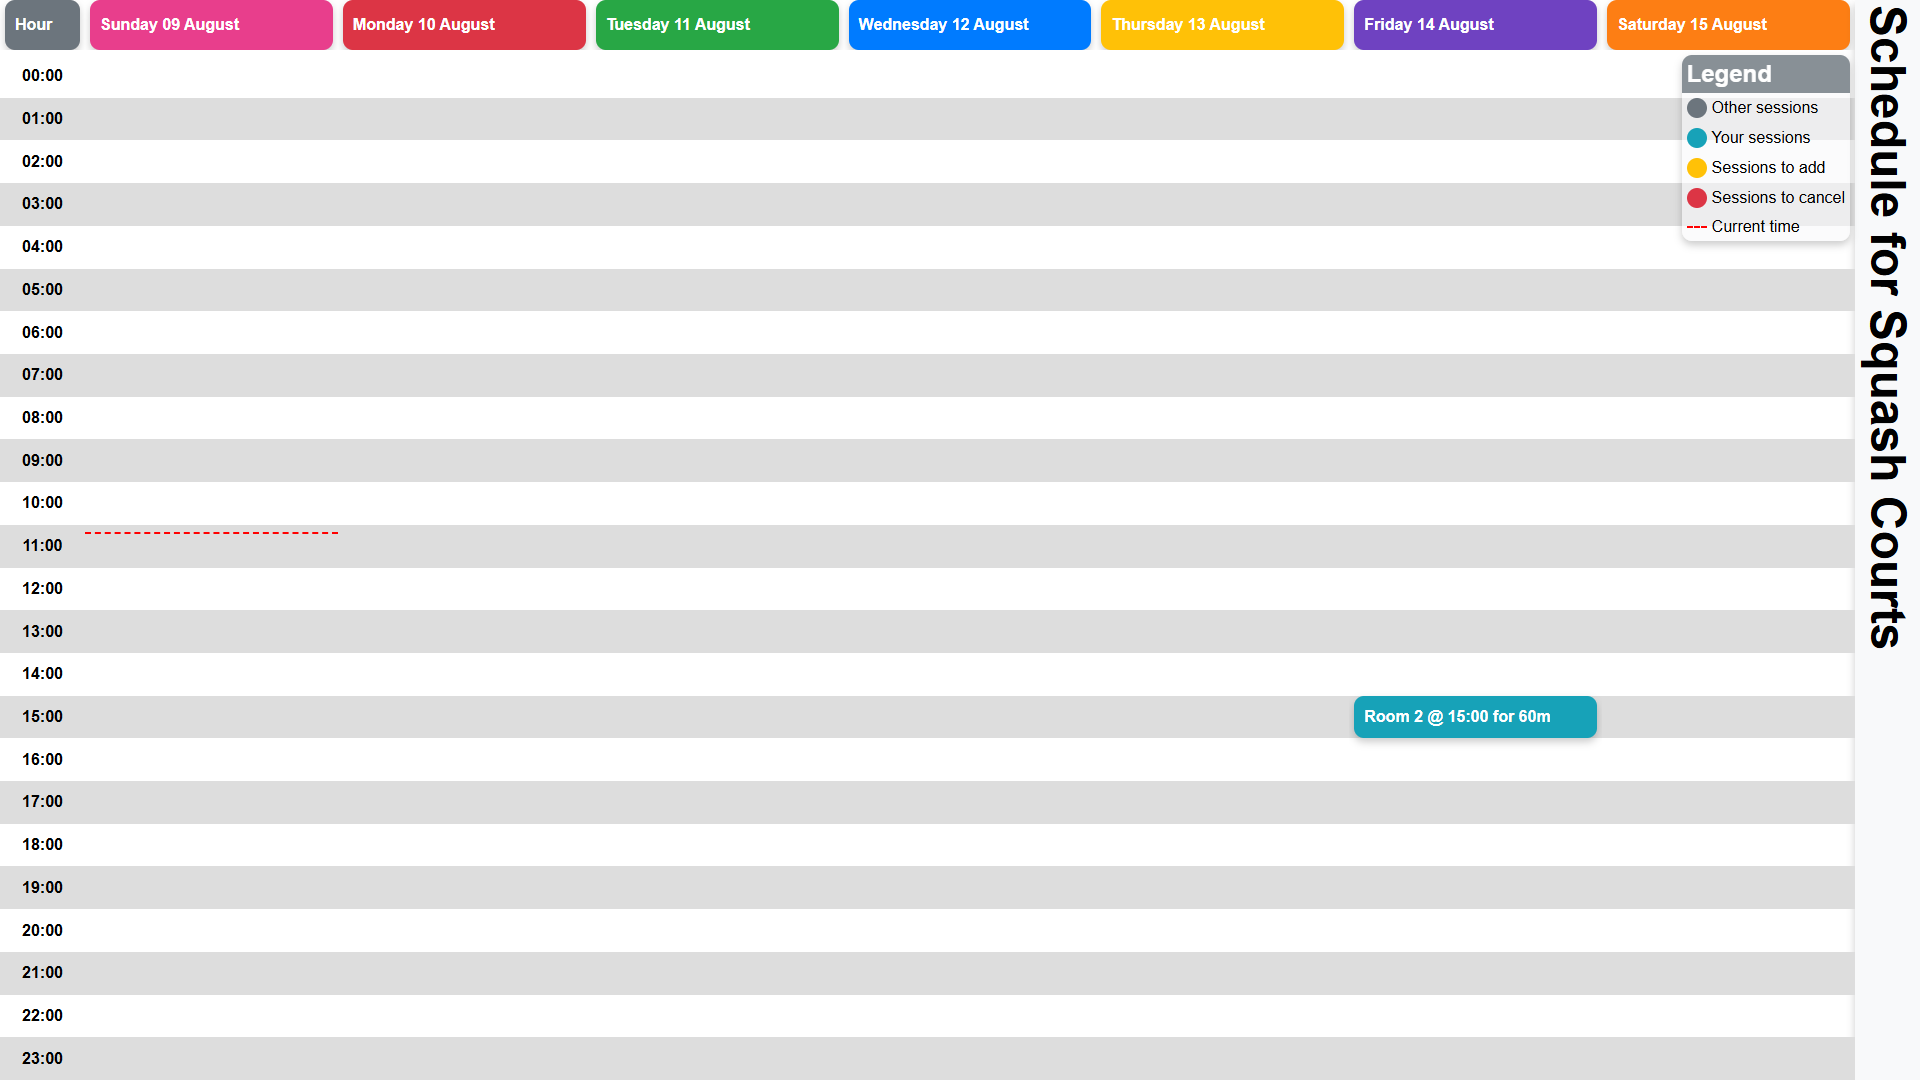
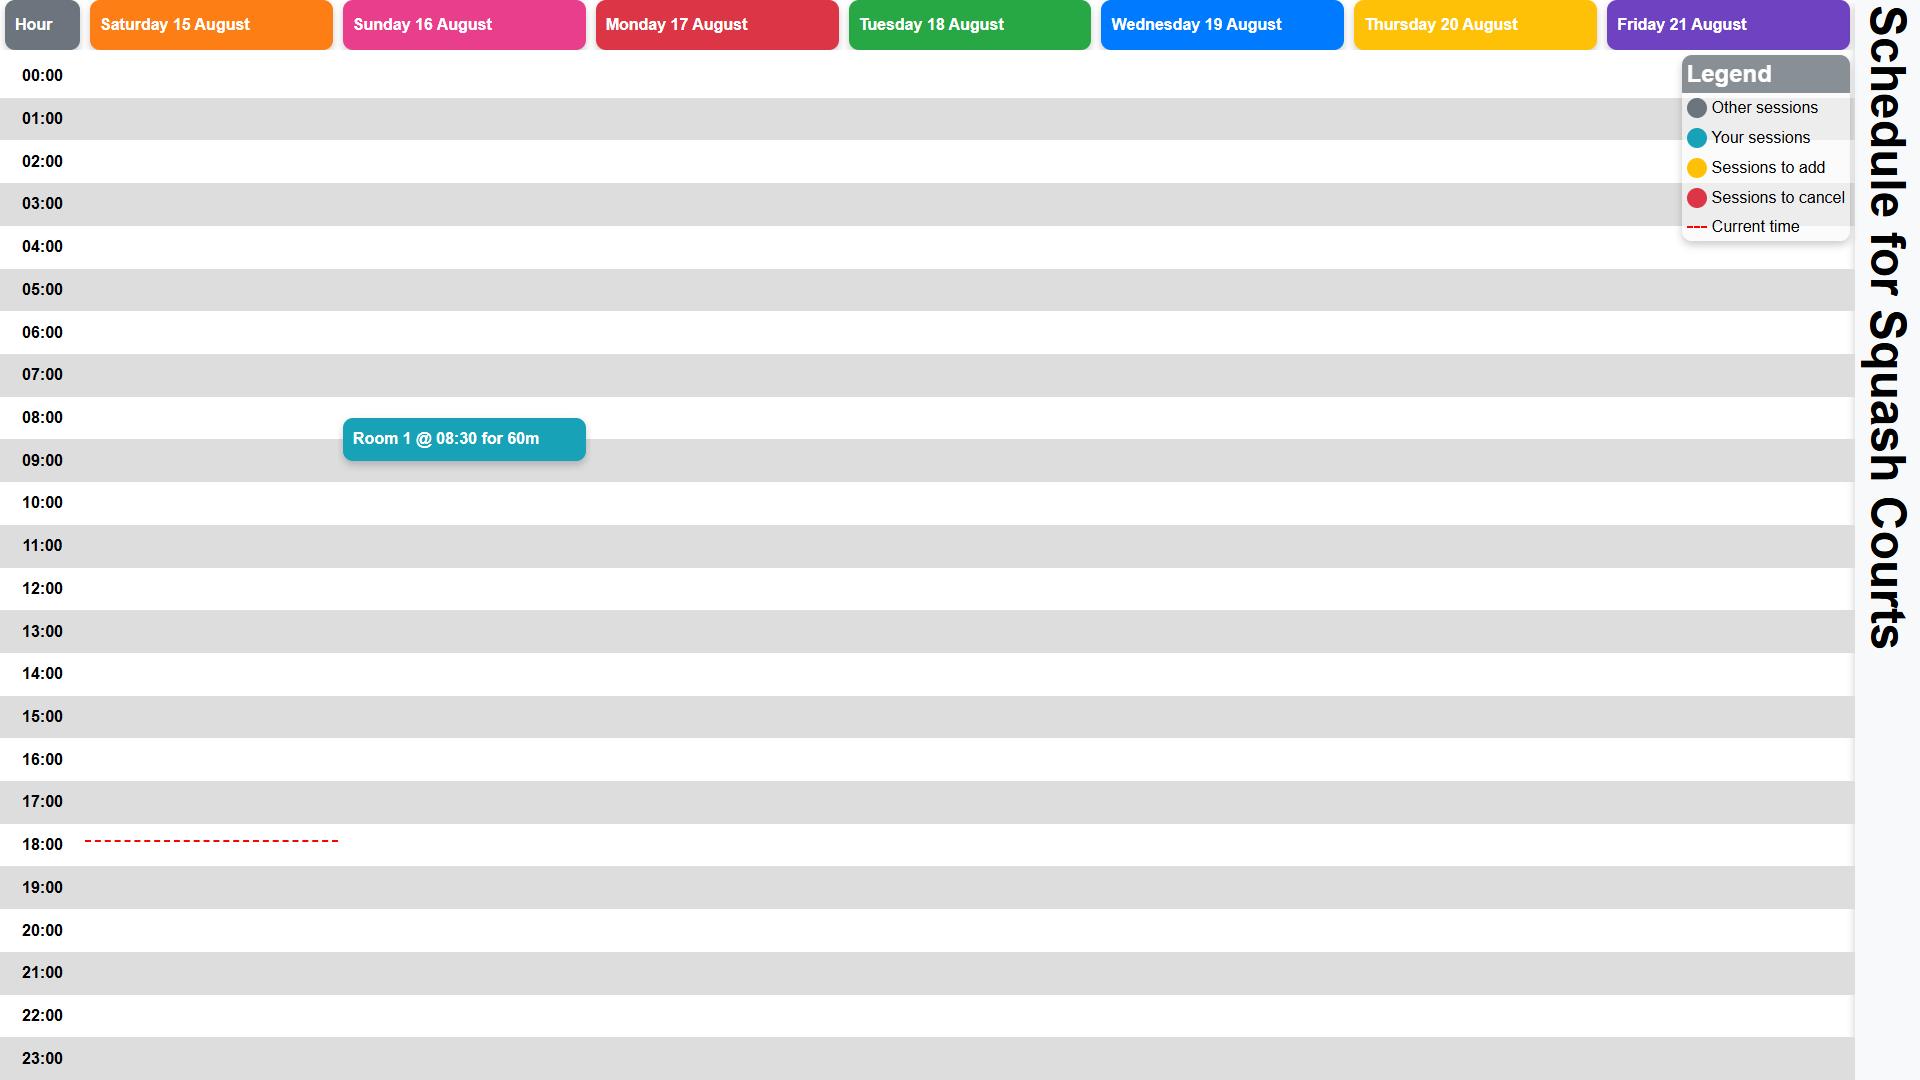
wip

Changed region(s): [[0.0312, 0.0, 0.9688, 0.0611], [0.6875, 0.6417, 0.8438, 0.7028], [0.1562, 0.3667, 0.3125, 0.4278]]

diff --git a/server/schedule/index.html b/server/schedule/index.html
@@ -13,13 +13,13 @@
             <div class="header row">
                 <!-- Every header takes up an equal width except the hour. It's important that the content columns have this same width. -->
                 <div class="hour column"> <div class="header cell gray-bg"><p>Hour</p></div> </div>
-    <div class="column"> <div class="header cell pink-bg"><p>Sunday 09 August</p></div> </div>
-<div class="column"> <div class="header cell red-bg"><p>Monday 10 August</p></div> </div>
-<div class="column"> <div class="header cell green-bg"><p>Tuesday 11 August</p></div> </div>
-<div class="column"> <div class="header cell blue-bg"><p>Wednesday 12 August</p></div> </div>
-<div class="column"> <div class="header cell yellow-bg"><p>Thursday 13 August</p></div> </div>
-<div class="column"> <div class="header cell purple-bg"><p>Friday 14 August</p></div> </div>
-<div class="column"> <div class="header cell orange-bg"><p>Saturday 15 August</p></div> </div>
+    <div class="column"> <div class="header cell orange-bg"><p>Saturday 15 August</p></div> </div>
+<div class="column"> <div class="header cell pink-bg"><p>Sunday 16 August</p></div> </div>
+<div class="column"> <div class="header cell red-bg"><p>Monday 17 August</p></div> </div>
+<div class="column"> <div class="header cell green-bg"><p>Tuesday 18 August</p></div> </div>
+<div class="column"> <div class="header cell blue-bg"><p>Wednesday 19 August</p></div> </div>
+<div class="column"> <div class="header cell yellow-bg"><p>Thursday 20 August</p></div> </div>
+<div class="column"> <div class="header cell purple-bg"><p>Friday 21 August</p></div> </div>
 
             </div>
             
@@ -59,31 +59,31 @@
                     </div>
     <div class="column layers">
 <div class="column layer">
-    <div class="  cell" style="flex-grow: 0.4659971691435185"><p></p></div>
+    <div class="  cell" style="flex-grow: 0.7669639598726852"><p></p></div>
     <div class="  timeline"></div>
 </div>
 
 </div>
 <div class="column layers">
-
-</div>
-<div class="column layers">
-
-</div>
-<div class="column layers">
-
-</div>
-<div class="column layers">
-
-</div>
-<div class="column layers">
 <div class="column layer" style="left: 0.0000%; width: 100.0000%;">
 <div class="column">
-<div class="cell" style="flex-grow: 0.625"></div>
-<div class="cyan-bg event cell" style="flex-grow: 0.041666666666666664"><p>Room 2 @ 15:00 for 60m</p></div>
+<div class="cell" style="flex-grow: 0.3541666666666667"></div>
+<div class="cyan-bg event cell" style="flex-grow: 0.041666666666666664"><p>Room 1 @ 08:30 for 60m</p></div>
 </div>
 </div>
 
+
+</div>
+<div class="column layers">
+
+</div>
+<div class="column layers">
+
+</div>
+<div class="column layers">
+
+</div>
+<div class="column layers">
 
 </div>
 <div class="column layers">

diff --git a/facility_menu_bot.py b/facility_menu_bot.py
@@ -108,6 +108,29 @@ async def control_all_lights(convo: Convo, state: int, action: str):
     except Exception as e:
         await convo.send_message(f"❌ Error controlling lights: {str(e)}")
 
+async def toggle_room_light(convo: Convo, room_id: str):
+    """Toggle a room's light on/off."""
+    try:
+        # Get current status
+        status = await manager.get_room_status(room_id=room_id)
+        if "error" in status:
+            await convo.send_message(f"❌ Error getting status: {status['error']}")
+            return
+        
+        # Toggle state
+        current_state = status.get("light", "unknown").lower()
+        new_state = 0 if current_state == "on" else 1
+        
+        result = await manager.control_lights(room_id=room_id, state=new_state)
+        if "error" not in result:
+            light_status = result.get("light", "unknown").upper()
+            emoji = "💡" if light_status == "ON" else "🌙"
+            await convo.send_message(f"{emoji} Room {room_id} light turned {light_status.lower()}")
+        else:
+            await convo.send_message(f"❌ Error: {result['error']}")
+    except Exception as e:
+        await convo.send_message(f"❌ Error toggling light: {str(e)}")
+
 async def show_schedule(convo: Convo, user: User):
     """Display the schedule as an image and list user's sessions."""
     try:
@@ -318,12 +341,10 @@ async def update_user_balance(convo: Convo, current_user: User):
         await convo.send_message(f"❌ Error updating balance: {str(e)}")
 
 async def show_main_menu(convo: Convo, user: User) -> str:
-    """Display main menu and return user's choice."""
-    # Admin-only options
+    """Display main menu with room controls and return user's choice."""
+    # Admin-only options (non-room)
     admin_actions = {
         "📊 System Status": lambda: show_system_status(convo),
-        "💡 Turn on light": lambda: show_room_selection(convo, 1),
-        "🌙 Turn off light": lambda: show_room_selection(convo, 0),
         "✨ Turn on all": lambda: control_all_lights(convo, state=1, action="on"),
         "⚫ Turn off all": lambda: control_all_lights(convo, state=0, action="off"),
         "💰 Update Balance": lambda: update_user_balance(convo, user),
@@ -332,12 +353,27 @@ async def show_main_menu(convo: Convo, user: User) -> str:
     # User options (available to all)
     user_actions = {
         "📅 View Schedule": lambda: show_schedule(convo, user),
-        "🏟 Book or cancel a session": lambda: manage_sessions(convo, user),
+        "🏟 Book or cancel": lambda: manage_sessions(convo, user),
     }
+
+    # Get room statuses and build room options (admin only)
+    room_actions = {}
+    if user.id in ADMIN_USER_IDS:
+        try:
+            rooms = manager.get_room_ids()
+            for room_id in rooms:
+                status = await manager.get_room_status(room_id=room_id)
+                if "error" not in status:
+                    light_state = status.get("light", "unknown").lower()
+                    emoji = "💡" if light_state == "on" else "🌙"
+                    room_label = f"{emoji} Room {room_id}"
+                    room_actions[room_label] = (lambda rid=room_id: toggle_room_light(convo, rid))
+        except Exception as e:
+            print(f"Error loading rooms: {e}")
 
     # Build menu based on user privileges
     is_admin = user.id in ADMIN_USER_IDS
-    menu_actions = {**admin_actions, **user_actions} if is_admin else user_actions
+    menu_actions = {**room_actions, **admin_actions, **user_actions} if is_admin else user_actions
 
     # Count user's sessions
     user_sessions = user.sessions

diff --git a/server/interaction.md b/server/interaction.md
@@ -21,40 +21,23 @@ If you identify one or multiple sessions that should be removed, you should desc
 
 CONTEXT:
 Available room types: "Squash Courts"
-Now: Sunday 2026/08/09 10:59
-Upcoming dates: Monday 2026/08/10, Tuesday 2026/08/11, Wednesday 2026/08/12, Thursday 2026/08/13, Friday 2026/08/14, Saturday 2026/08/15
-User sessions: [
-    {
-        "session_id": 0,
-        "room_id": 1,
-        "room_type": "Squash Courts",
-        "start_date": "2026-08-09",
-        "start_time": "10:53",
-        "duration": 3
-    },
-    {
-        "session_id": 1,
-        "room_id": 2,
-        "room_type": "Squash Courts",
-        "start_date": "2026-08-14",
-        "start_time": "15:00",
-        "duration": 60
-    }
-]
+Now: Saturday 2026/08/15 18:24
+Upcoming dates: Sunday 2026/08/16, Monday 2026/08/17, Tuesday 2026/08/18, Wednesday 2026/08/19, Thursday 2026/08/20, Friday 2026/08/21
+User sessions: []
 
 
 EXAMPLE 1:
 User input: I want to play Squash this weekend at 5pm, for 1h.
 Output:
 I will add a session for Saturday at 5pm for 1 hour. The user wants to play Squash, so I will set room_type to "Squash Courts".
-{"action": "add", "room_type": "Squash Courts", "start_date": "2026-08-15", "start_time": "17:00", "duration": 60}
+{"action": "add", "room_type": "Squash Courts", "start_date": "2026-08-22", "start_time": "17:00", "duration": 60}
 I will also add a session for Sunday at 5pm for 1 hour.
 {"action": "add", "room_type": "Squash Courts", "start_date": "2026-08-16", "start_time": "17:00", "duration": 60}
 
 EXAMPLE 2:
 Suppose the user has the following sessions:
-{"session_id": 0, "room_id": 1, "room_type": "Squash Courts", "start_date": "2026-08-15", "start_time": "10:00", "duration": 60}
-{"session_id": 1, "room_id": 1, "room_type": "Squash Courts", "start_date": "2026-08-15", "start_time": "12:00", "duration": 60}
+{"session_id": 0, "room_id": 1, "room_type": "Squash Courts", "start_date": "2026-08-22", "start_time": "10:00", "duration": 60}
+{"session_id": 1, "room_id": 1, "room_type": "Squash Courts", "start_date": "2026-08-22", "start_time": "12:00", "duration": 60}
 {"session_id": 2, "room_id": 2, "room_type": "Squash Courts", "start_date": "2026-08-16", "start_time": "14:00", "duration": 60}
 User input: I want to cancel all my Saturday sessions.
 Output:
@@ -64,28 +47,22 @@ I will cancel the sessions on Saturday.
 
 EXAMPLE 3:
 Suppose the user has the following sessions:
-{"session_id": 0, "room_id": 1, "room_type": "Squash Courts", "start_date": "2026-08-15", "start_time": "10:00", "duration": 90}
+{"session_id": 0, "room_id": 1, "room_type": "Squash Courts", "start_date": "2026-08-22", "start_time": "10:00", "duration": 90}
 {"session_id": 1, "room_id": 2, "room_type": "Squash Courts", "start_date": "2026-08-16", "start_time": "12:00", "duration": 120}
 User input: Move my upcoming session to 3pm.
 Output:
 I will first cancel your upcoming session, which is the one with a session_id of 0.
 {"action": "remove", "session_id": 0}
 I will add a session with the same details, but with a start_time of 15:00.
-{"action": "add", "room_type": "Squash Courts", "start_date": "2026-08-15", "start_time": "15:00", "duration": 90}
+{"action": "add", "room_type": "Squash Courts", "start_date": "2026-08-22", "start_time": "15:00", "duration": 90}
 
 
 # Input
-Book a session for 2 minutes from now, lasting 5 minutes
+Book tomorrow at 8:30 1h
 
 # Output (gpt-4o)
-The user wants to book a session starting 2 minutes from now, which is currently Sunday, 2026/08/09 at 10:59, meaning the session should start at 11:01. The duration requested is 5 minutes. Since the user wants to play Squash, I will set the room_type to "Squash Courts".
+The user wants to book a session for tomorrow, which is Sunday, 2026/08/16, at 8:30 AM for 1 hour. Since the user wants to book for Squash, I will set the room_type to "Squash Courts".
 
 ```json
-{
-  "action": "add",
-  "room_type": "Squash Courts",
-  "start_date": "2026-08-09",
-  "start_time": "11:01",
-  "duration": 5
-}
+{"action": "add", "room_type": "Squash Courts", "start_date": "2026-08-16", "start_time": "08:30", "duration": 60}
 ```
